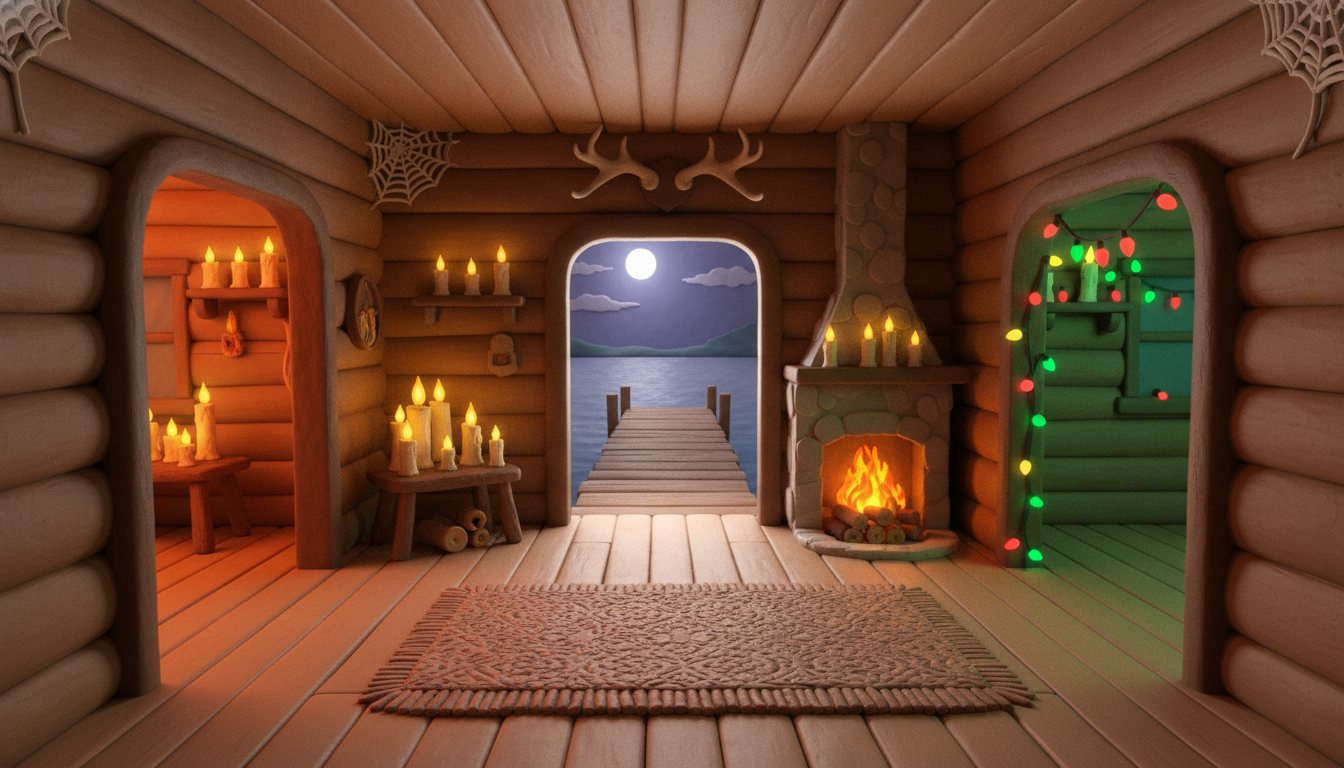
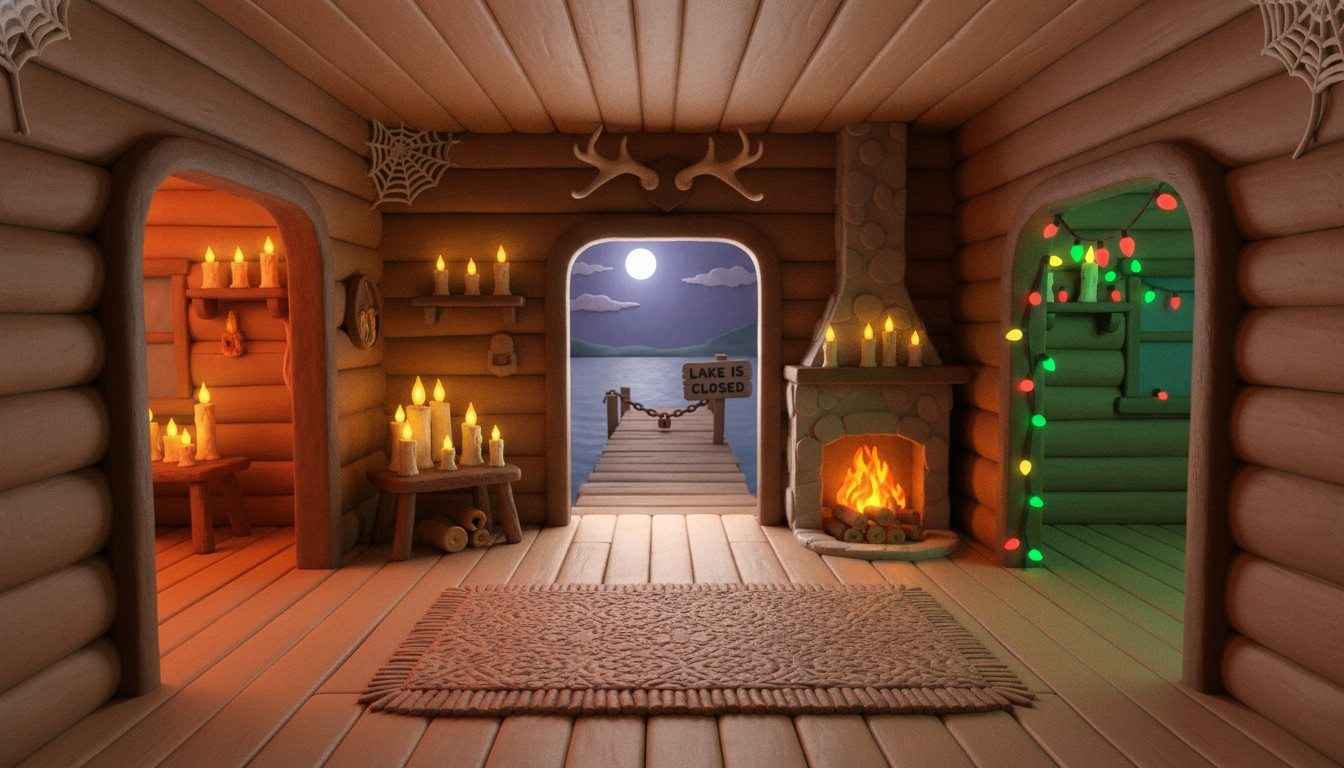
Cabin: LAKE IS CLOSED sign visible through the back door
Claude-Session: https://claude.ai/code/session_017UCt1yh6wM11RSMuh2VTku

Changed region(s): [[0.4375, 0.4375, 0.5625, 0.6562], [0.4375, 0.5, 0.4688, 0.5312]]

diff --git a/site/world/index.html b/site/world/index.html
@@ -138,7 +138,7 @@ button{font:inherit;color:inherit}
     <section class="scene" id="s-inside" data-crumb="The cabin" data-back="exterior">
       <img class="bg" src="img/inside.jpg" alt="Inside the clay log cabin, warm with candles and a fire: a candlelit archway on the left, an archway strung with red and green lights on the right, and the back door open to the dock and lake" width="1344" height="768">
       <button class="hot left" style="left:16%;top:50%" data-go="peddler" aria-label="Go left to the Peddler"><span class="ring"></span><span class="tag">The Peddler</span></button>
-      <button class="hot ahead" style="left:49%;top:46%;--glow:#9fc6ff" data-go="dock" aria-label="Go through the back door to the dock"><span class="ring"></span><span class="tag">Back door</span></button>
+      <button class="hot ahead" style="left:49%;top:61%;--glow:#9fc6ff" data-go="dock" aria-label="Go through the back door to the dock"><span class="ring"></span><span class="tag">Back door</span></button>
       <button class="hot right" style="left:82%;top:50%;--glow:#9be06f" data-go="tree" aria-label="Go right to the Nightmare Xmas tree"><span class="ring"></span><span class="tag">The tree</span></button>
     </section>
 

diff --git a/site/world/page.html b/site/world/page.html
@@ -133,7 +133,7 @@ button{font:inherit;color:inherit}
     <section class="scene" id="s-inside" data-crumb="The cabin" data-back="exterior">
       <img class="bg" src="img/inside.jpg" alt="Inside the clay log cabin, warm with candles and a fire: a candlelit archway on the left, an archway strung with red and green lights on the right, and the back door open to the dock and lake" width="1344" height="768">
       <button class="hot left" style="left:16%;top:50%" data-go="peddler" aria-label="Go left to the Peddler"><span class="ring"></span><span class="tag">The Peddler</span></button>
-      <button class="hot ahead" style="left:49%;top:46%;--glow:#9fc6ff" data-go="dock" aria-label="Go through the back door to the dock"><span class="ring"></span><span class="tag">Back door</span></button>
+      <button class="hot ahead" style="left:49%;top:61%;--glow:#9fc6ff" data-go="dock" aria-label="Go through the back door to the dock"><span class="ring"></span><span class="tag">Back door</span></button>
       <button class="hot right" style="left:82%;top:50%;--glow:#9be06f" data-go="tree" aria-label="Go right to the Nightmare Xmas tree"><span class="ring"></span><span class="tag">The tree</span></button>
     </section>
 
